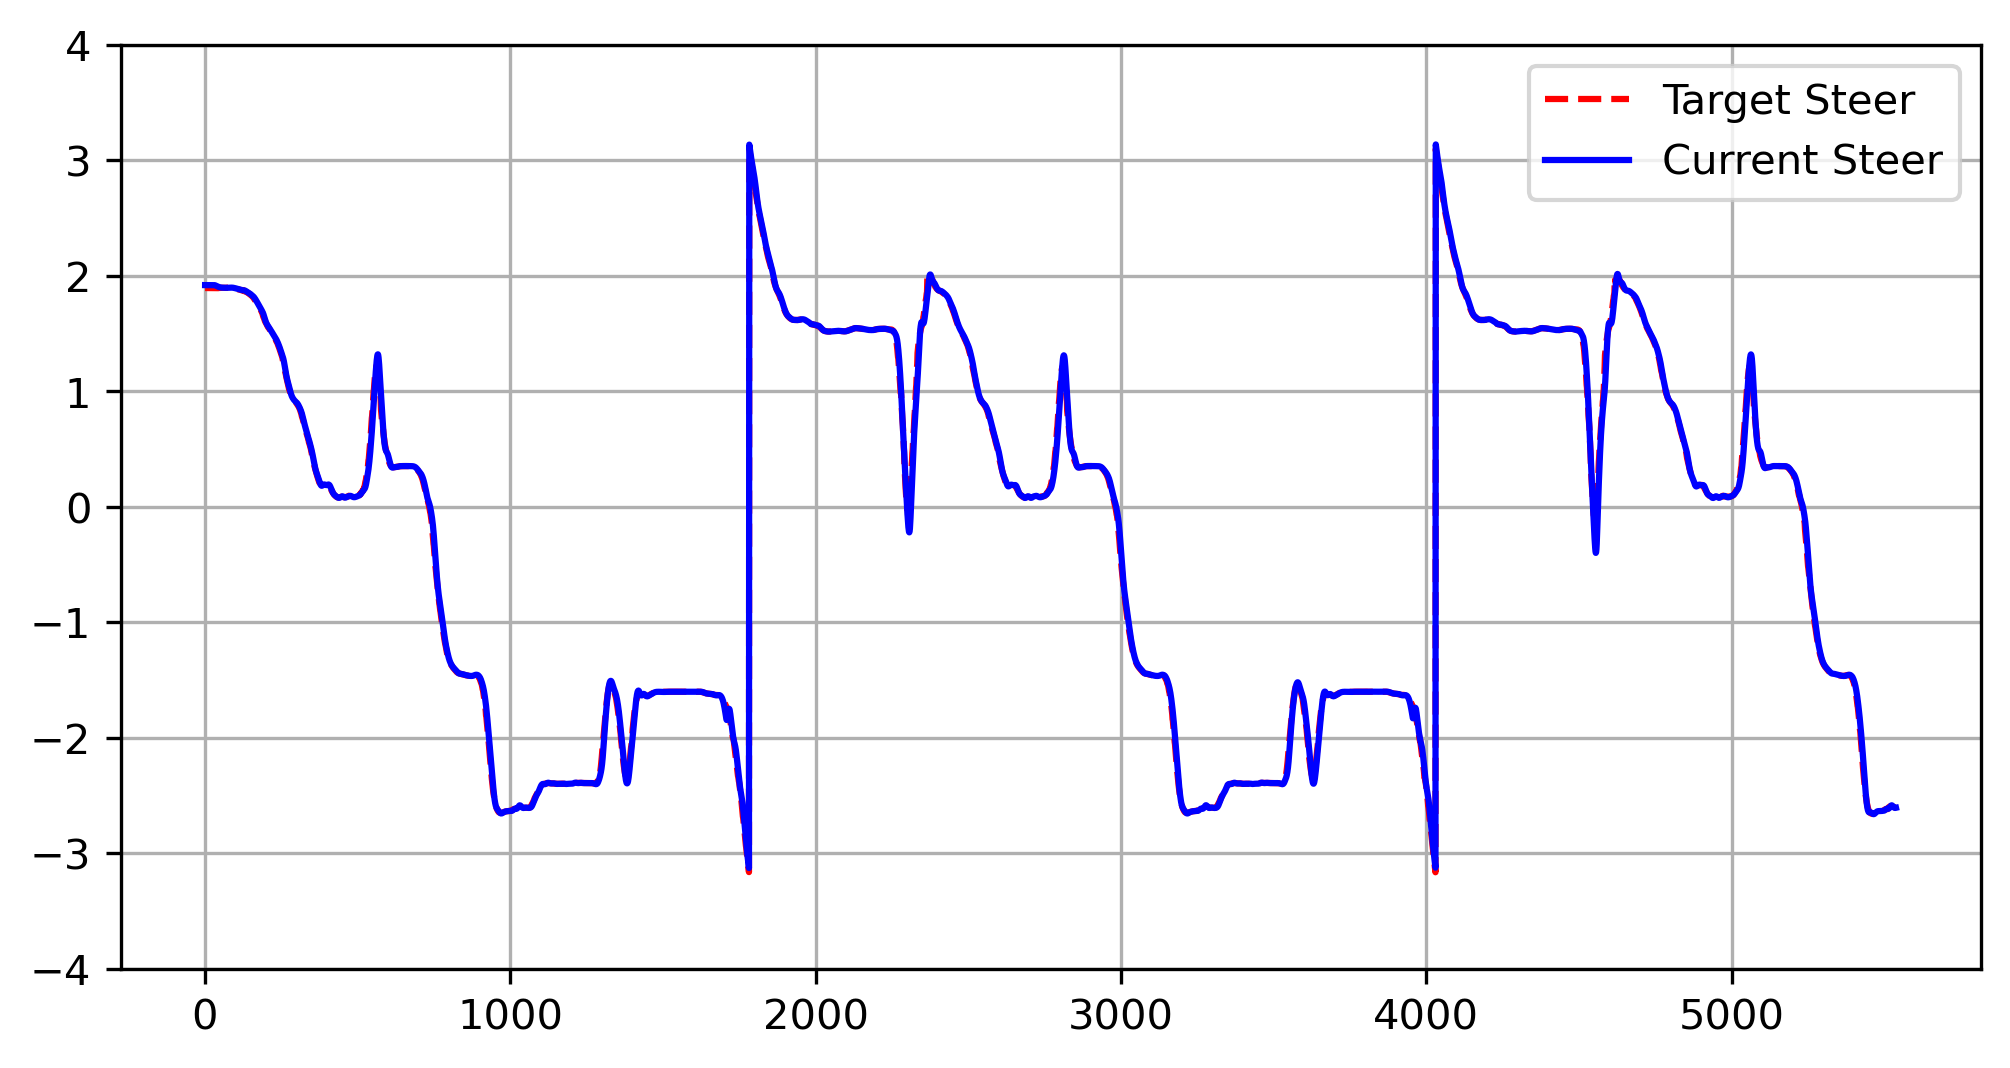
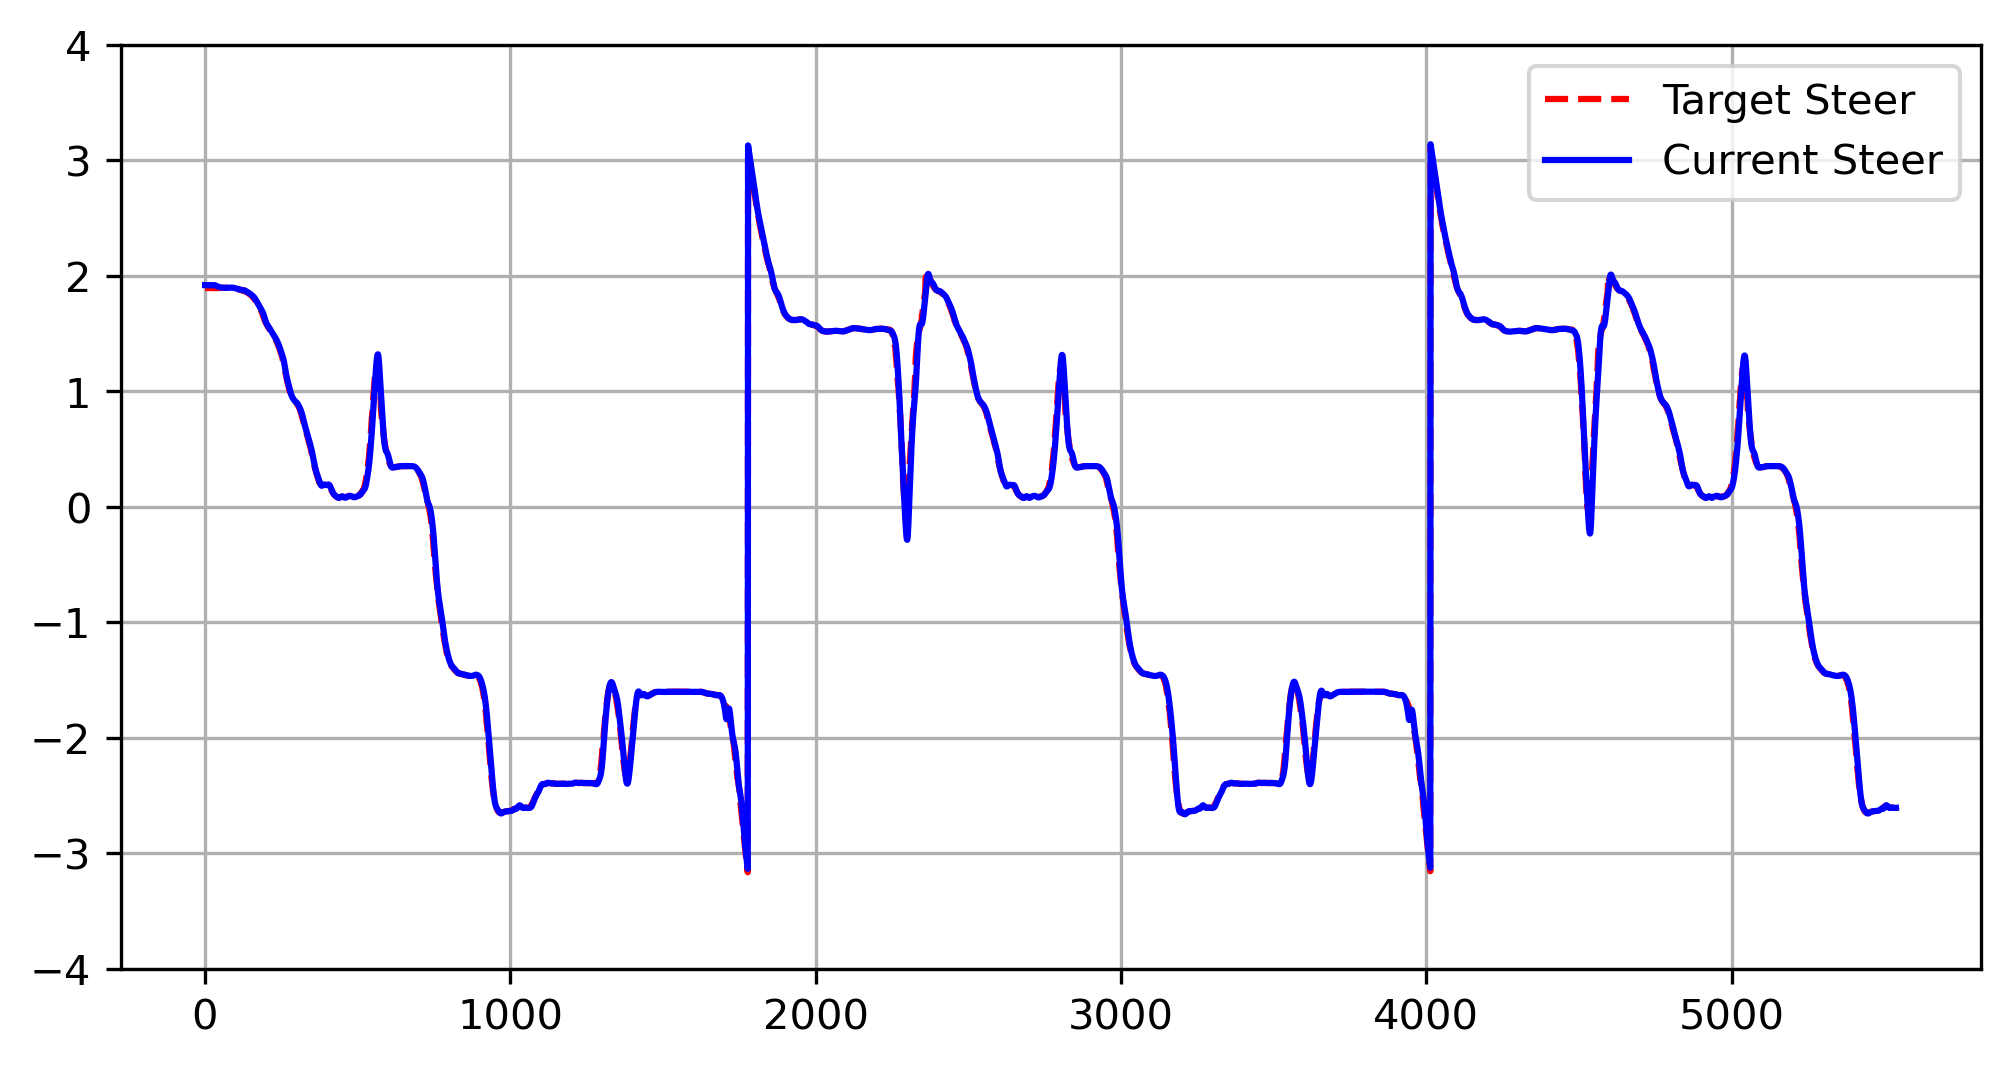
341

diff --git a/competition_code/submission.py b/competition_code/submission.py
@@ -12,7 +12,7 @@ from util.MathUtil import MathUtil
 from util.PIDController import PIDController
 from util.SteerController import SteerController
 from util.GenUtil import GenUtil
-import os
+from util.Tuner import Tuner
 
 def filter_waypoints(location : np.ndarray, current_idx: int, waypoints : List[roar_py_interface.RoarPyWaypoint]) -> int:
     def dist_to_waypoint(waypoint : roar_py_interface.RoarPyWaypoint):
@@ -93,8 +93,7 @@ class RoarCompetitionSolution:
         ) 
 
         target_speed = SpeedMap.get_target_speed(vehicle_velocity_norm, self)
-
-        if (target_speed > 35): target_speed *= 38/35
+        target_speed = Tuner.tune_target_speed(target_speed, self.current_waypoint_idx)
 
         self.speed_controller.set_setpoint(target_speed)
         throttle_control = self.speed_controller.calculate(vehicle_velocity_norm)
@@ -138,6 +137,6 @@ class RoarCompetitionSolution:
         }
         #print(f"Steer: {steer_normalized}")
         #print(f"WP: {self.current_waypoint_idx}, Radius: {self.radii_data[self.current_waypoint_idx]}, Target: {target_speed:.3f}")
-        print(f"Throttle: {throttle_normalized}, Brake: {brake_normalized}, Target Speed: {target_speed}, Current Speed: {vehicle_velocity_norm}, Steer Control: {steer_control}")
+        #print(f"Throttle: {throttle_normalized}, Brake: {brake_normalized}, Target Speed: {target_speed}, Current Speed: {vehicle_velocity_norm}, Steer Control: {steer_control}")
         await self.vehicle.apply_action(control)
         return control

diff --git a/competition_code/util/Tuner.py b/competition_code/util/Tuner.py
@@ -1,0 +1,9 @@
+class Tuner:
+
+    @staticmethod
+    def tune_target_speed(target_speed, waypoint):
+        if (target_speed > 35):
+            if (waypoint <= 520 or 745 <= waypoint <= 870 or 1100 <= waypoint <= 1450 or waypoint >= 2550):
+                return target_speed * 38/35
+            else: return target_speed * 40/35
+        return target_speed
